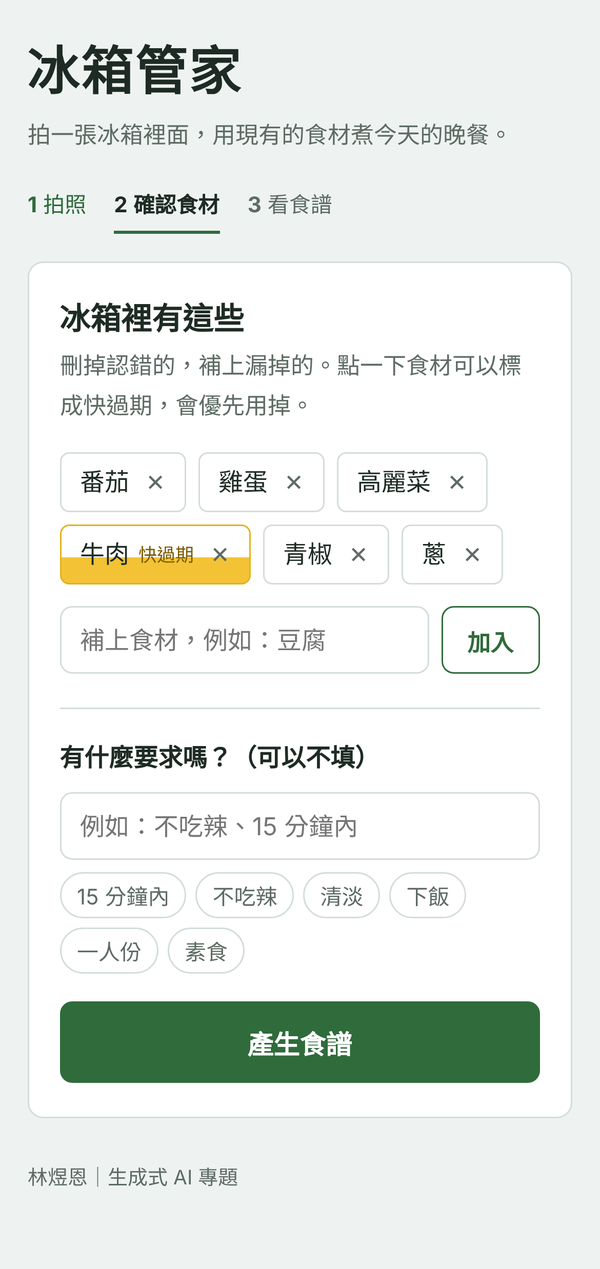
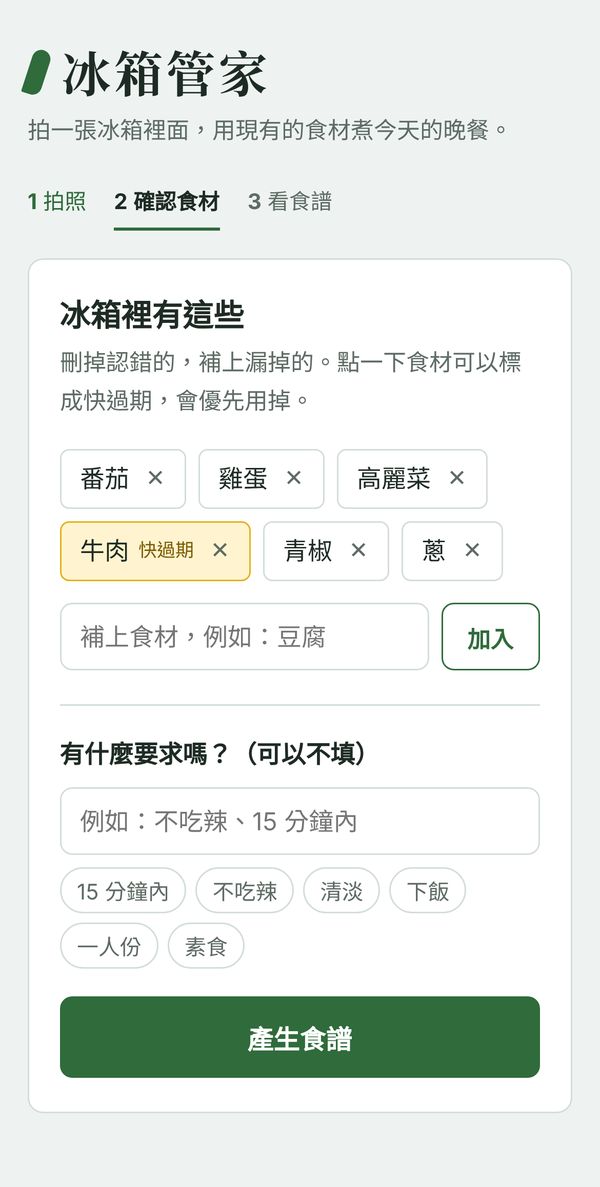
介面調整：改用一般字體，食譜改為食材／做法分欄的食譜書排版

diff --git a/app.py b/app.py
@@ -134,7 +134,7 @@ PAGE = r"""
 <meta name="viewport" content="width=device-width, initial-scale=1">
 <title>冰箱管家</title>
 <link rel="preconnect" href="https://fonts.googleapis.com"><link rel="preconnect" href="https://fonts.gstatic.com" crossorigin>
-<link href="https://fonts.googleapis.com/css2?family=LXGW+WenKai+TC:wght@400;700&family=Noto+Sans+TC:wght@400;500;700&display=swap" rel="stylesheet">
+<link href="https://fonts.googleapis.com/css2?family=Noto+Sans+TC:wght@400;500;700&family=Noto+Serif+TC:wght@600;700&display=swap" rel="stylesheet">
 <style>
 :root{
  --fridge:#EEF3F2;   /* 冰箱內壁的冷白 */
@@ -145,16 +145,16 @@ PAGE = r"""
  --leaf:#2F6B3B;     /* 青江菜綠：主要按鈕 */
  --leaf-d:#22512C;
  --yolk:#F3C335;     /* 蛋黃：即期品標示 */
- --note:#FFF3B8;     /* 便利貼 */
  --tomato:#B8432B;   /* 只用在錯誤 */
- --hand:"LXGW WenKai TC","Kaiti TC","STKaiti","DFKai-SB",serif;
+ --serif:"Noto Serif TC","Songti TC","PMingLiU",serif;
  --sans:"Noto Sans TC",system-ui,sans-serif;
 }
 *{box-sizing:border-box}
 body{margin:0;background:var(--fridge);color:var(--ink);font:16px/1.7 var(--sans)}
 .page{max-width:560px;margin:0 auto;padding:28px 18px 48px}
 header{margin-bottom:22px}
-header h1{margin:0;font:700 34px/1.2 var(--hand);letter-spacing:1px}
+header h1{margin:0;font:700 32px/1.2 var(--serif);letter-spacing:2px;display:flex;align-items:center;gap:10px}
+header h1:before{content:"";width:12px;height:30px;border-radius:12px 12px 12px 2px;background:var(--leaf);transform:rotate(18deg)}
 header p{margin:6px 0 0;color:var(--soft);font-size:15px}
 .steps{display:flex;gap:18px;margin:0 0 18px;padding:0;list-style:none;font-size:14px;color:var(--soft)}
 .steps li{padding-bottom:4px;border-bottom:2px solid transparent}
@@ -181,7 +181,7 @@ h2{margin:0 0 4px;font-size:20px;line-height:1.4}
 :focus-visible{outline:3px solid var(--yolk);outline-offset:2px}
 .chips{display:flex;flex-wrap:wrap;gap:8px;min-height:40px}
 .chip{display:inline-flex;align-items:center;gap:4px;padding:5px 6px 5px 12px;border:1px solid var(--line);border-radius:6px;background:#fff;font-size:16px;cursor:pointer;user-select:none}
-.chip.exp{background:linear-gradient(transparent 55%,var(--yolk) 55%);border-color:#E2B21F}
+.chip.exp{background:#FFF4CF;border-color:#E2B21F}
 .chip.exp:after{content:"快過期";font-size:12px;color:#7A5A00;margin-left:2px}
 .chip button{order:2;border:0;background:none;width:26px;height:26px;border-radius:4px;cursor:pointer;color:var(--soft);font-size:15px}
 .chip button:hover{background:#EEF2F0;color:var(--tomato)}
@@ -195,22 +195,31 @@ input[type=text]:focus,.add input:focus{outline:none;border-color:var(--leaf)}
 .tags{display:flex;flex-wrap:wrap;gap:6px;margin-top:8px}
 .tags button{font:14px var(--sans);padding:4px 10px;border:1px solid var(--line);border-radius:20px;background:#fff;color:var(--soft);cursor:pointer}
 .tags button:hover{border-color:var(--leaf);color:var(--leaf)}
-/* 食譜：貼在冰箱門上的便利貼 */
-.recipe .intro{margin:0 0 18px;font-size:16px;color:var(--soft)}
+/* 食譜：像一本家常菜食譜書的一頁 */
+.recipe .intro{margin:0 0 14px;color:var(--soft)}
 .recipe .intro p{margin:0}
-.dish{position:relative;background:var(--note);padding:26px 22px 20px;margin:0 4px 26px;font:18px/1.8 var(--hand);color:#2B2615;box-shadow:0 1px 0 #E6D88F,0 8px 14px -10px #6B5E2266;transform:rotate(-.6deg)}
-.dish:nth-of-type(even){transform:rotate(.5deg);background:#FFE9C2}
-.dish:before{content:"";position:absolute;top:-10px;left:50%;width:84px;height:22px;margin-left:-42px;background:#FFFFFFAA;border:1px solid #0000000d;transform:rotate(-2deg)}
-.dish h3{margin:0 0 8px;font:700 24px/1.4 var(--hand)}
-.dish ul,.dish ol{margin:4px 0 8px;padding-left:24px}
-.dish strong{font-weight:700}
-.dish p{margin:6px 0}
-.recipe>p{font:17px/1.8 var(--hand);color:var(--soft)}
+.book{background:var(--panel);border:1px solid var(--line);border-radius:10px;padding:4px 20px;margin-bottom:16px}
+.dish{padding:22px 0 24px}
+.dish+.dish{border-top:6px solid var(--fridge)}
+.dish-head{display:flex;align-items:baseline;justify-content:space-between;gap:12px;padding-bottom:12px;margin-bottom:16px;border-bottom:1px solid var(--line)}
+.dish h3{margin:0;font:700 25px/1.35 var(--serif);letter-spacing:1px}
+.time{flex:none;font-size:14px;color:var(--leaf);font-weight:700;padding:2px 10px;border-radius:20px;background:#E6F0E8}
+.cols{display:grid;grid-template-columns:1fr;gap:18px}
+@media(min-width:520px){.cols{grid-template-columns:150px 1fr;gap:24px}}
+.dish h4{margin:0 0 6px;font-size:14px;color:var(--soft);font-weight:700}
+.ing ul{list-style:none;margin:0;padding:0}
+.ing li{display:flex;justify-content:space-between;gap:8px;padding:5px 0;border-bottom:1px dotted var(--line)}
+.ing li span{color:var(--soft);white-space:nowrap}
+.how ol{list-style:none;margin:0;padding:0;counter-reset:s}
+.how li{counter-increment:s;position:relative;padding:4px 0 10px 34px}
+.how li:before{content:counter(s);position:absolute;left:0;top:2px;font:700 22px/1.2 var(--serif);color:var(--leaf)}
+.dish .raw ul,.dish .raw ol{padding-left:22px}
+.leftover{margin:0 0 18px;padding:12px 14px;border-left:3px solid var(--yolk);background:#FFF9E6;font-size:15px}
 .recipe hr{display:none}
 .err{border:1px solid #E7B4A8;background:#FBEDEA;color:var(--tomato);border-radius:8px;padding:12px 14px;margin-bottom:16px;font-size:15px}
 .load{position:fixed;inset:0;background:#EEF3F2F2;display:none;flex-direction:column;align-items:center;justify-content:center;text-align:center;padding:20px;z-index:9}
 .load.on{display:flex}
-.load b{font:700 22px var(--hand)} .load small{color:var(--soft);margin-top:4px}
+.load b{font:700 20px var(--sans)} .load small{color:var(--soft);margin-top:4px}
 .bar{width:180px;height:4px;background:var(--line);border-radius:2px;margin-top:16px;overflow:hidden}
 .bar:after{content:"";display:block;width:40%;height:100%;background:var(--leaf);animation:slide 1.2s ease-in-out infinite}
 @keyframes slide{from{transform:translateX(-100%)}to{transform:translateX(250%)}}
@@ -300,13 +309,35 @@ function submitRecipe(f){if(!list.length){alert('請至少保留一樣食材');r
  return go(f,'正在想今天煮什麼','大約 10～40 秒')}
 (function(){var t=document.getElementById('items');if(t){list=t.value.split('\n').map(function(s){return s.trim()}).filter(Boolean);draw()}
  var r=document.getElementById('recipe');if(!r)return;
- var kids=Array.prototype.slice.call(r.childNodes),cur=null,intro=document.createElement('div'),tail=[];intro.className='intro';
- kids.forEach(function(k){if(k.nodeType===1&&/^H[1-3]$/.test(k.tagName)){cur=document.createElement('section');cur.className='dish';r.appendChild(cur);cur.appendChild(k)}
+ var kids=Array.prototype.slice.call(r.childNodes),cur=null,intro=document.createElement('div'),book=document.createElement('div');
+ intro.className='intro';book.className='book';
+ kids.forEach(function(k){if(k.nodeType===1&&/^H[1-3]$/.test(k.tagName)){cur=document.createElement('section');cur.className='dish';book.appendChild(cur);cur.appendChild(k)}
   else if(cur){cur.appendChild(k)}else if(k.nodeType===1||k.textContent.trim()){intro.appendChild(k)}});
- if(intro.textContent.trim())r.insertBefore(intro,r.firstChild);
- r.querySelectorAll('h1,h2').forEach(function(h){var n=document.createElement('h3');n.innerHTML=h.innerHTML;h.replaceWith(n)});
- var dishes=r.querySelectorAll('.dish');if(dishes.length){var last=dishes[dishes.length-1];var ps=last.querySelectorAll(':scope > p');
-  if(ps.length){var p=ps[ps.length-1];if(/沒用到|下次|保存/.test(p.textContent)){r.appendChild(p)}}}})();
+ r.innerHTML='';if(intro.textContent.trim())r.appendChild(intro);
+ var dishes=book.querySelectorAll('.dish');
+ if(!dishes.length){r.appendChild(intro.childNodes.length?intro:document.createTextNode(''));return}
+ r.appendChild(book);
+ dishes.forEach(function(d){try{fmt(d)}catch(e){}});
+ // 「沒用到的食材」那句話移到最後
+ var last=dishes[dishes.length-1],ps=last.querySelectorAll('p');
+ for(var i=ps.length-1;i>=0;i--){if(/沒用到|下次|保存/.test(ps[i].textContent)){ps[i].className='leftover';r.appendChild(ps[i]);break}}
+})();
+function fmt(d){
+ var h=d.querySelector('h1,h2,h3');var name=h?h.textContent.replace(/^\s*\d+[.、]\s*/,''):'';
+ var time='',ing=[],ul=d.querySelector('ul'),ol=d.querySelector('ol');
+ if(ul){Array.prototype.forEach.call(ul.children,function(li){var t=li.textContent.trim();
+  var m=t.match(/^(預估時間|時間)\s*[:：]\s*(.+)$/);if(m){time=m[2];return}
+  m=t.match(/^(使用食材|所需食材|食材)[^:：]*[:：]\s*(.*)$/);if(m){ing=m[2].split(/[、，,]/).map(function(x){return x.trim()}).filter(Boolean);
+   var sub=li.querySelector('ul');if(sub)Array.prototype.forEach.call(sub.children,function(x){ing.push(x.textContent.trim())});return}})}
+ if(!ol||!ing.length)return;   // 格式不符就保留原本的樣子
+ var out='<div class="dish-head"><h3></h3>'+(time?'<span class="time"></span>':'')+'</div><div class="cols"><div class="ing"><h4>食材</h4><ul></ul></div><div class="how"><h4>做法</h4><ol></ol></div></div>';
+ var keep=Array.prototype.filter.call(d.querySelectorAll(':scope > p'),function(p){return p.textContent.trim()});
+ var steps=Array.prototype.map.call(ol.children,function(li){return li.innerHTML});
+ d.innerHTML=out;d.querySelector('h3').textContent=name;if(time)d.querySelector('.time').textContent=time;
+ var iu=d.querySelector('.ing ul');ing.forEach(function(x){var li=document.createElement('li');var m=x.match(/^(.+?)\s*([\d半一二三兩四五六七八九十少適][^\s]*.*)$/);
+  if(m&&m[1]!==x){li.textContent=m[1];var sp=document.createElement('span');sp.textContent=m[2];li.appendChild(sp)}else{li.textContent=x}iu.appendChild(li)});
+ var oo=d.querySelector('.how ol');steps.forEach(function(s){var li=document.createElement('li');li.innerHTML=s;oo.appendChild(li)});
+ keep.forEach(function(p){d.appendChild(p)})}
 </script>
 </body></html>
 """
